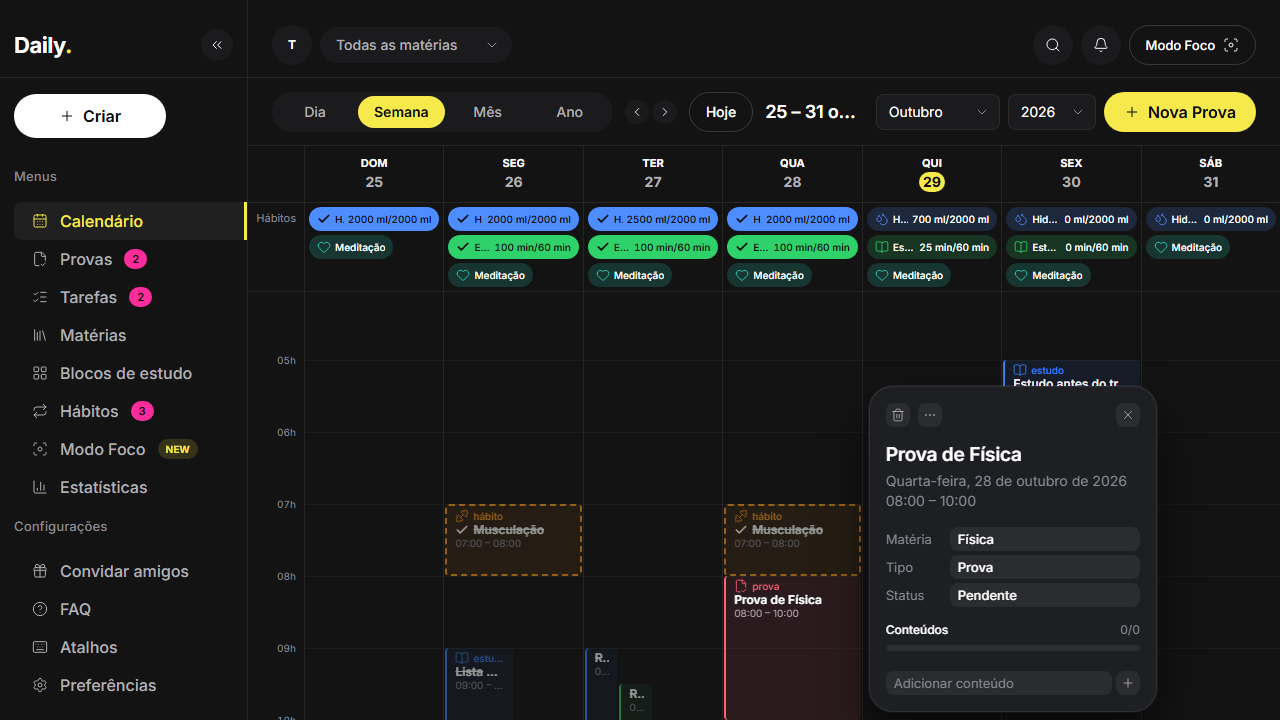
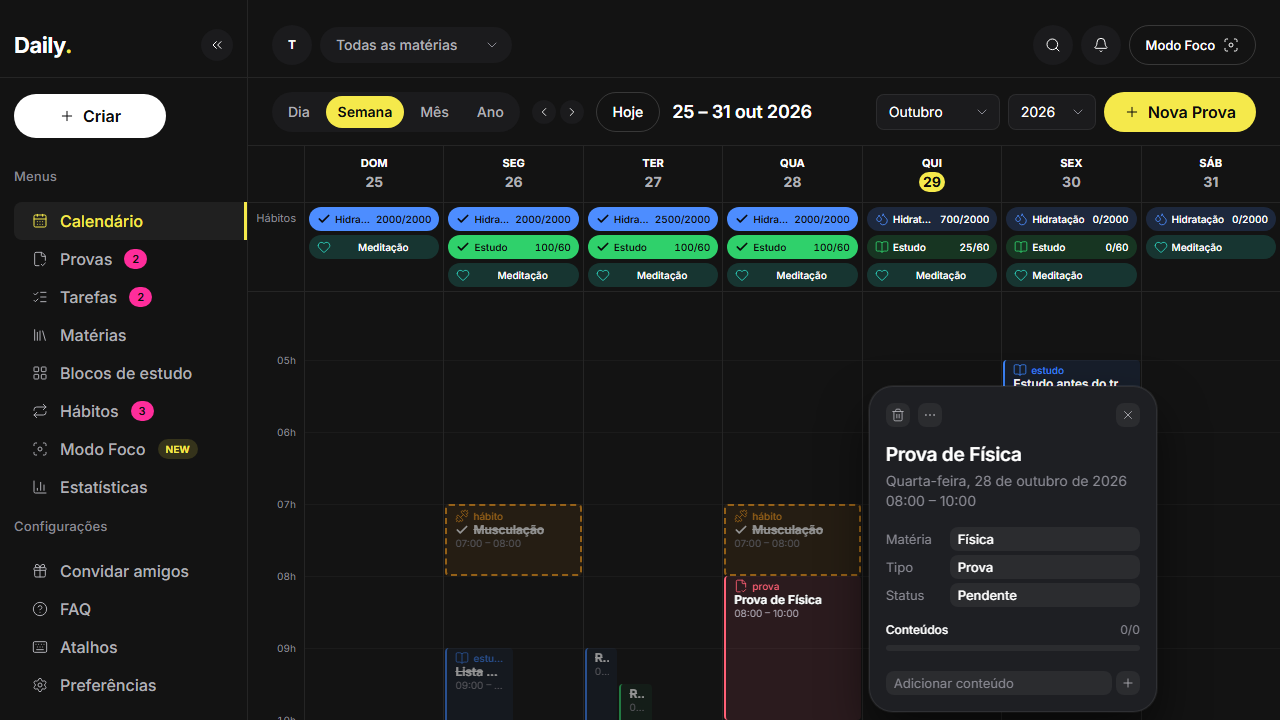
feat(calendar): compact view switcher, pill layout and contrast; docs for the calendar views

diff --git a/apps/web/src/features/calendar/components/HabitPill.tsx b/apps/web/src/features/calendar/components/HabitPill.tsx
@@ -22,14 +22,19 @@ export function HabitPill({ habit, date, ctx, onToggle }: HabitPillProps) {
   const Icon = HABIT_ICON_COMPONENT[habit.icon];
   const done = isDone(habit, date, ctx);
   const state = stateText(dayState(habit, date, ctx));
+  // Na pílula, só “valor/meta” (a unidade fica no rótulo e no tooltip).
+  const value = valueOn(habit, date, ctx);
+  const target = targetOn(habit, date);
   const quantity =
+    habit.type === 'quantidade' ? `${formatAmount(value, '')}/${formatAmount(target, '')}` : null;
+  const quantityLong =
     habit.type === 'quantidade'
-      ? `${formatAmount(valueOn(habit, date, ctx), habit.unit)}/${formatAmount(targetOn(habit, date), habit.unit)}`
+      ? `${formatAmount(value, habit.unit)}/${formatAmount(target, habit.unit)}`
       : null;
   const interactive = habit.source === 'manual' && date <= ctx.today;
-  const label = `${habit.name}: ${state}${quantity ? ` (${quantity})` : ''}`;
+  const label = `${habit.name}: ${state}${quantityLong ? ` (${quantityLong})` : ''}`;
   const className = cn(
-    'inline-flex h-habit-pill max-w-full items-center gap-1 rounded-full px-2 text-2xs font-medium',
+    'flex h-habit-pill w-full items-center gap-1 rounded-full px-2 text-2xs font-medium',
     HABIT_COLOR_CLASS[habit.color],
     done ? 'habit-bg text-accent-fg' : 'habit-bg-soft text-fg',
     interactive && 'hover:brightness-125',
@@ -41,7 +46,7 @@ export function HabitPill({ habit, date, ctx, onToggle }: HabitPillProps) {
       ) : (
         <Icon aria-hidden strokeWidth={1.5} className="habit-text size-icon-sm shrink-0" />
       )}
-      <span className="truncate">{habit.name}</span>
+      <span className="min-w-0 flex-1 truncate">{habit.name}</span>
       {quantity && <span className="shrink-0 tabular-nums">{quantity}</span>}
     </>
   );

diff --git a/apps/web/src/components/ui/SegmentedControl.tsx b/apps/web/src/components/ui/SegmentedControl.tsx
@@ -18,6 +18,8 @@ interface SegmentedControlProps<T extends string> {
   onChange: (value: T) => void;
   /** Ações (ex.: “Hoje”) exibidas no mesmo trilho, mas que nunca ficam selecionadas. */
   actions?: readonly ActionItem[];
+  /** Itens mais justos (sem largura mínima), para barras de controles apertadas. */
+  compact?: boolean;
   'aria-label': string;
 }
 
@@ -28,6 +30,7 @@ export function SegmentedControl<T extends string>({
   value,
   onChange,
   actions = [],
+  compact = false,
   'aria-label': ariaLabel,
 }: SegmentedControlProps<T>) {
   return (
@@ -50,6 +53,7 @@ export function SegmentedControl<T extends string>({
               onClick={() => onChange(option.value)}
               className={cn(
                 ITEM,
+                compact && 'min-w-0! px-3!',
                 active ? 'bg-accent font-semibold text-accent-fg' : 'text-soft hover:text-fg',
               )}
             >

diff --git a/apps/web/src/features/calendar/components/TimeGridView.tsx b/apps/web/src/features/calendar/components/TimeGridView.tsx
@@ -103,7 +103,7 @@ export function TimeGridView({
             ),
             stripLabel: 'Hábitos',
             renderStrip: (date: string) => (
-              <div className="flex flex-wrap gap-1">
+              <div className="flex flex-col gap-1">
                 {untimedHabits(habits, date, ctx).map((habit) => (
                   <HabitPill key={habit.id} habit={habit} date={date} ctx={ctx} onToggle={toggle} />
                 ))}

diff --git a/apps/web/src/features/calendar/components/CalendarControls.tsx b/apps/web/src/features/calendar/components/CalendarControls.tsx
@@ -70,6 +70,7 @@ export function CalendarControls({
         <SegmentedControl
           aria-label="Visualização do calendário"
           options={VIEW_OPTIONS}
+          compact
           value={view}
           onChange={onViewChange}
         />

diff --git a/docs/prompts/06-report.md b/docs/prompts/06-report.md
@@ -1,0 +1,67 @@
+# Relatório 06 — Visões Dia, Semana e Ano do calendário (v0.6.0)
+
+## O que foi feito
+
+- **Navegação (Passo 0):** o calendário passou a ter **Dia | Semana | Mês | Ano**. O botão "Hoje" saiu do segmentado e virou uma pílula ao lado das setas (`‹ ›  Hoje  título do período`) e volta ao período atual **na visão em que se está**. Visão e data ficam na URL (`/calendario?visao=semana&data=2026-10-29`); recarregar, voltar e compartilhar preservam o estado, valores inválidos caem em Mês + hoje e parâmetros extras (ex.: `fixture`) são preservados. Os selects de mês e ano seguem a data, as setas andam por dia, semana, mês ou ano, e o filtro por matéria da topbar vale para todas as visões. "Nova Prova" não mudou.
+- **Grade de horas (`TimeGrid`)**, usada por Dia e Semana: coluna de horas, linhas por hora, intervalo 06h–24h **expandido** em horas cheias quando há evento fora dele, linha de "agora" no dia de hoje, rolagem automática para a hora atual (ou 07h). Blocos posicionados por **porcentagem** do intervalo, duração visual mínima de 30 min e corte na meia-noite. `layoutSobreposicoes` distribui os concorrentes em colunas lado a lado. Conteúdo do bloco por altura (3, 2 ou 1 linha com tooltip), no estilo dos chips do mês. Clicar num espaço vazio abre o formulário com data e horário (arredondado para baixo, em 30 min); clicar num bloco abre o popover de evento do mês.
+- **Semana:** 7 colunas (DOM–SÁB), hoje em amarelo, título "25 – 31 out 2026" (ajusta nas viradas de mês e ano), faixa "Hábitos" fixa com pílulas dos hábitos sem horário (manual alterna em hoje e nos dias passados; quantidade mostra valor/meta; automáticos são só leitura) e blocos tracejados para hábitos com horário. Cabeçalho e faixa ficam fixos na rolagem vertical e, abaixo de 960 px, grade e cabeçalho rolam juntos na horizontal.
+- **Dia:** título "Hoje, quinta-feira, 29 de outubro" (ou a data por extenso), grade de uma coluna larga e painel à direita (abaixo de 1100 px, acima da grade) com "Hábitos do dia" (mesmos controles da página Hábitos), "Próxima prova" (contagem regressiva, barra e atalho) e "Tarefas do dia" (entregas pendentes e atrasadas, com checkbox para concluir), todos com estados vazios.
+- **Ano:** 12 mini-meses (4×3 a partir de 1600 px, 3×4 a partir de 1100 px, 2×6 abaixo), densidade em 4 níveis, marcador vermelho nos dias com prova, hoje com contorno amarelo, dias de outros meses ocultos, tooltip e `aria-label` com a contagem ("3 eventos, 1 prova"), legenda "Menos … Mais". O dia abre a visão Dia e o nome do mês, a visão Mês. Foco móvel por teclado (← → um dia, ↑ ↓ uma semana).
+- **Teclado:** `←` `→` período, `T` hoje, `D` `S` `M` `A` visão; desativados em campos de texto, em menus e diálogos, com modal aberto, com o app travado e quando a própria visão já tratou a tecla (grade do Ano). `aria-keyshortcuts` e dica no tooltip.
+- **Verificação:** fixture `?fixture=views`, `pnpm visual:views` e auditoria de contraste ampliada ao calendário.
+
+## Decisões
+
+- **Estado na URL por `useSearchParams`:** cada mudança é uma entrada do histórico (o voltar do navegador funciona); a visão padrão (Mês) não reescreve a URL até alguém navegar.
+- **Posição por porcentagem:** altura do corpo = horas × `--ds-grid-hour-h` (token) e cada bloco usa `top`/`height` em %. As linhas por altura usam limiares em **minutos** (≥ 50 min = 3 linhas), calibrados para a hora de 72 px.
+- **Entrega sem duração** vira um bloco de 30 min (mínimo visual), sempre dentro das 24 h.
+- **Hábitos na grade:** hábitos com horário usam o mesmo layout de sobreposição dos eventos (`GridItem` unificado) e alternam ao clique (manuais, até hoje).
+- **Criar num espaço vazio** usa o tipo "Bloco de estudo" (o mais comum numa grade de horas); o botão do dia no cabeçalho da Semana abre o formulário padrão e é a alternativa por teclado.
+- **Densidade do Ano** ignora eventos cancelados; o texto da célula troca para escuro no nível 3 (amarelo cheio).
+- **Sem dependência nova.** Classes do Tailwind só por mapas literais (`HABIT_COLOR_CLASS`, `DENSITY_CLASS`) ou variáveis de tokens; nada de classes montadas por template.
+
+## Valores visuais estimados
+
+Todos em `tokens.css` e no design system (§ 12): hora de 72 px, coluna de horas de 56 px, largura mínima da Semana de 960 px, cabeçalho de 56 px, painel do Dia de 320 px (altura mínima da grade de 36 rem quando o painel vai para cima), linha de agora de 2 px com bolinha de 8 px, pílula de hábito de 24 px, borda tracejada de 2 px, célula do Ano de 24 px com vão de 24 px e marcador de prova de 5 px, densidades de 4 %, 22 %, 38 % e 85 % do amarelo.
+
+## Contraste
+
+`node apps/web/scripts/contrast-audit.mjs views` (1.107 textos nas 4 visões e nas demais páginas). Primeira medição: o "valor/meta" das pílulas ficava em 2,9–3,6:1 e os números do nível 2 do Ano em 4,2:1 (o resto dos reprovados eram textos cobertos pelo cabeçalho fixo, descartados passando a verificar `elementFromPoint`). Depois dos ajustes: menor razão **4,55:1**, nenhum abaixo de 4,5:1 (`docs/design/screenshots/stats/contrast-views.json`). Foco visível: anel global; a grade do Ano e os blocos o herdam.
+
+## Diferenças e limitações
+
+- Sem arrastar/redimensionar, sem eventos de vários dias e sem recorrência de eventos (fora do escopo); o que cruza a meia-noite é cortado em cada dia.
+- Clicar num espaço vazio da grade é ação de mouse; por teclado, cria-se pelo botão do dia (Semana) ou pelo "Nova Prova".
+- Na fixture `views` o evento que cruza a meia-noite faz a grade da semana ir de 00h a 24h; a rolagem inicial leva à hora atual.
+- O popover de evento reaproveita o do mês, sem ajustes de posição específicos da grade (a captura confirma que fica dentro da tela nos três tamanhos).
+- Sem overflow horizontal da página em 1920×1080, 1440×900 e 1280×720 (`docs/design/screenshots/views/capture-report.json`).
+
+## Como rodar
+
+```bash
+pnpm dev                       # http://localhost:5173/calendario?visao=semana&data=2026-10-29&fixture=views
+pnpm visual:views              # capturas em docs/design/screenshots/views/
+node apps/web/scripts/contrast-audit.mjs views
+```
+
+## Resultado dos comandos
+
+| Comando          | Resultado                                                                                                                                                                                                                                                                                                                                                                                                     |
+| ---------------- | ------------------------------------------------------------------------------------------------------------------------------------------------------------------------------------------------------------------------------------------------------------------------------------------------------------------------------------------------------------------------------------------------------------- |
+| `pnpm lint`      | sem erros                                                                                                                                                                                                                                                                                                                                                                                                     |
+| `pnpm typecheck` | sem erros                                                                                                                                                                                                                                                                                                                                                                                                     |
+| `pnpm test`      | 255 testes em `apps/web` + 11 em `packages/shared`, todos passando (novos: intervalo da semana em viradas de mês/ano, corte na meia-noite, expansão do intervalo, posição em %, `layoutSobreposicoes` (sem conflito, 2 e 3 simultâneos, encadeados, mesmo início, evento dentro de outro, sem perda), `grade12Meses`, `densidadePorDia`, títulos de cada visão, URL com valores inválidos, clique em hábitos) |
+| `pnpm build`     | ok                                                                                                                                                                                                                                                                                                                                                                                                            |
+| `pnpm e2e`       | 29 testes passando (7 novos: trocar de visão pelo segmentado e pela URL; `→` e "Hoje"; atalhos não roubam teclas; criar num horário vazio com data e hora corretas; Ano → Dia e → Mês; marcar hábito pela faixa; simultâneos sem sobreposição)                                                                                                                                                                |
+
+**CI no GitHub:** confirmado na mensagem final da sessão (resultado do último commit e da tag).
+
+## Capturas (`docs/design/screenshots/views/`)
+
+`dia-*`, `semana-*`, `mes-*`, `ano-*` e `semana-popover-*`, cada uma em `1920x1080`, `1440x900` e `1280x720`, mais `capture-report.json`.
+
+## Pendências
+
+- Criar eventos por teclado direto na grade (hoje: botão do dia e "Nova Prova").
+- Captura do Dia com o painel acima da grade (< 1100 px) e da Semana com rolagem horizontal (< 960 px de grade).
+- Foco visível e hover dos blocos foram verificados por teclado/e2e, não por medição automática.

diff --git a/docs/design/design-system.md b/docs/design/design-system.md
@@ -1,4 +1,4 @@
-# Daily — Design System (v0.8)
+# Daily — Design System (v0.9)
 
 Fonte de verdade para os tokens em `apps/web/src/styles/tokens.css` (variáveis com prefixo `--ds-`, ex.: `--ds-color-bg`).
 Referência: `docs/design/reference/calendar.png` (808×609 px, mockup com moldura de dispositivo).
@@ -393,3 +393,12 @@ O calendário tem quatro visões: **Dia | Semana | Mês | Ano**. O botão “Hoj
 - **Dia:** uma coluna larga e, à direita, o painel de `--ds-day-panel-w` (320 px) com “Hábitos do dia”, “Próxima prova” e “Tarefas do dia”; abaixo de 1100 px o painel vai para cima da grade.
 - **Ano:** 12 mini-meses (cabeçalho com a inicial do dia da semana). Colunas: 4×3 a partir de 1600 px, 3×4 a partir de 1100 px e 2×6 abaixo (`--ds-year-gap` entre eles); células de `--ds-year-day` (24 px). Densidade por dia em 4 níveis (`--ds-density-0..3`: 0, 1, 2 e 3 ou mais eventos), marcador vermelho (`--ds-year-exam-dot`, 5 px) nos dias com prova e o hoje com contorno amarelo. Legenda “Menos … Mais”.
 - **Atalhos:** `←`/`→` período anterior e seguinte, `T` hoje, `D` `S` `M` `A` trocam a visão; desativados com foco em campo de texto, com modal aberto e com o app travado. Cada botão tem `aria-keyshortcuts` e a dica no `title`.
+
+### 12.1 Implementação (v0.9)
+
+- **Código:** `TimeGrid` (grade), `TimeGridView` (liga eventos, hábitos e relógio), `TimeBlock` (`EventBlock` e `HabitBlock`), `HabitPill`, `WeekView`, `DayView` + `DayPanel` e `YearView`; a lógica pura fica em `features/calendar/lib` (`views`, `time-layout`, `grid-items`, `year`) com testes.
+- **Simultâneos:** itens que se encadeiam por sobreposição formam um grupo e dividem as colunas dele; fora do grupo voltam à largura inteira. Hábitos com horário entram no mesmo layout dos eventos.
+- **Faixa de hábitos:** uma pílula por linha, na largura da coluna, com “valor/meta” sem unidade (a unidade vai no `aria-label` e no tooltip).
+- **Barra de controles:** o segmentado usa a variante `compact` (sem largura mínima) para o título do período caber em 1280 px.
+- **Contraste (`node apps/web/scripts/contrast-audit.mjs views`):** 1.107 textos medidos nas 4 visões e nas outras páginas; antes dos ajustes, o texto “valor/meta” das pílulas ficava em 2,9–3,6:1 e os números do nível 2 do Ano em 4,2:1; depois, menor razão **4,55:1** e nenhum abaixo de 4,5:1 (`docs/design/screenshots/stats/contrast-views.json`). O nível 2 de densidade passou de 50 % para 38 % do amarelo.
+- **Fixture `views`:** quinta-feira 29/10/2026, 10h30; semana densa (três simultâneos, encadeados, prova, evento que cruza a meia-noite, evento às 05h e dias vazios) e um hábito manual sem horário (“Meditação”).

diff --git a/CHANGELOG.md b/CHANGELOG.md
@@ -5,6 +5,18 @@ tem versões publicadas.
 
 ## [Não lançado]
 
+### Adicionado (Prompt 06 — visões do calendário)
+
+- O calendário tem **Dia | Semana | Mês | Ano**. A visão e a data ficam na URL (`/calendario?visao=semana&data=2026-10-29`; valores inválidos caem em Mês + hoje) e o botão voltar do navegador as respeita. O botão "Hoje" saiu do segmentado e virou uma pílula ao lado das setas (`‹ ›  Hoje  título do período`); as setas andam por dia, semana, mês ou ano.
+- **Grade de horas** (`TimeGrid`) para Dia e Semana: 06h–24h expandida quando há eventos fora dela, blocos posicionados por **porcentagem** do intervalo, duração visual mínima de 30 min, corte na meia-noite, linha de "agora" e rolagem inicial na hora atual (ou 07h). Eventos simultâneos ficam lado a lado (`layoutSobreposicoes`). Blocos mostram 3, 2 ou 1 linha conforme a altura, com tooltip. Clicar num espaço vazio abre o formulário já com data e horário (arredondado para 30 min).
+- **Semana:** faixa "Hábitos" fixa com pílulas dos hábitos sem horário (marca hábito manual de hoje e dos dias passados; quantidade mostra valor/meta; automáticos são só leitura) e blocos tracejados para hábitos com horário. **Dia ("Hoje"):** grade larga e painel com "Hábitos do dia", "Próxima prova" e "Tarefas do dia". **Ano:** 12 mini-meses com densidade de eventos (0, 1, 2, 3+), marcador de prova, hoje com contorno e navegação por teclado; o dia abre a visão Dia e o nome do mês, a visão Mês.
+- Atalhos `←` `→` (período), `T` (hoje) e `D` `S` `M` `A` (visão), desativados em campos de texto, com modal aberto e com o app travado; `aria-keyshortcuts` e dica no tooltip.
+- Fixture `?fixture=views`, `pnpm visual:views`, tokens e a seção "Visões do calendário" no design system.
+
+### Alterado (Prompt 06)
+
+- A auditoria de contraste passou a cobrir o calendário; corrigidos o texto "valor/meta" das pílulas e o nível 2 da densidade do Ano.
+
 ### Adicionado (Prompt 05 — hábitos recorrentes)
 
 - Página `/habitos` e item "Hábitos" na sidebar (contador de pendentes hoje; oculto em zero, como o de Tarefas): um cartão por hábito, com ícone e cor, resumo da repetição, sequência, melhor sequência, taxa de 90 dias, controle de hoje, menu (Editar, Duplicar, Arquivar, Excluir com "Desfazer") e o **heatmap de contribuições** (semanas em colunas, rótulos de mês e dia, legenda, hoje com contorno, teclado e `aria-label` por dia, tooltip, tabela oculta por mês, rolagem horizontal abaixo de 1100 px).

diff --git a/README.md b/README.md
@@ -47,7 +47,7 @@ O projeto está em desenvolvimento, organizado em marcos.
 
 ### Já disponíveis
 
-- [x] Calendário mensal com navegação por mês e ano e botão "Hoje"
+- [x] **Calendário com 4 visões — Dia, Semana, Mês e Ano** (`/calendario?visao=semana&data=2026-10-29`): visão e data na URL, botão "Hoje" ao lado das setas (volta ao período atual na visão em que se está), atalhos de teclado (`←` `→` `T` `D` `S` `M` `A`)
 - [x] Dia atual destacado e dias de outros meses esmaecidos
 - [x] Chips de evento por tipo (prova, estudo, entrega, revisão, especial) com "+N mais" em dias cheios
 - [x] Popover de evento com data, horário, matéria, tipo e status
@@ -72,7 +72,6 @@ O projeto está em desenvolvimento, organizado em marcos.
 
 - [ ] Autenticação (e-mail/senha ou Google)
 - [ ] Sincronização com back-end
-- [ ] Visões Semana e Ano
 - [ ] Notificações e lembretes periódicos
 - [ ] PWA instalável (manifest e service worker)
 - [ ] Atalhos de teclado
@@ -220,7 +219,8 @@ A pílula **Travar** (visível só com o cronômetro parado) liga a trava para a
 - Com várias abas abertas, **a última escrita vence** (o evento `storage` recarrega a aba que não gravou; não há mesclagem de edições simultâneas)
 - O `Repository` é síncrono (adequado ao `localStorage`); uma API exigirá torná-lo assíncrono
 - Busca e notificações ainda são apenas visuais
-- Visões Semana e Ano são placeholders; Atalhos, FAQ e Convidar amigos são páginas placeholder
+- Atalhos, FAQ e Convidar amigos são páginas placeholder
+- Calendário: nas visões Dia e Semana não dá para arrastar nem redimensionar eventos, não há eventos de vários dias (os que cruzam a meia-noite são cortados em cada dia) nem recorrência de eventos; clicar num espaço vazio é uma ação de mouse (o teclado cria pelo botão do dia no cabeçalho da Semana e pelo "Nova Prova")
 - Hábitos: os registros ficam só neste navegador; correções retroativas só para hábitos manuais e até 366 dias atrás; a regra de repetição ainda não vale para eventos do calendário (recorrência de eventos fica para depois); mudar repetição, meta ou horário vale a partir de hoje (o histórico não muda)
 - Estatísticas: a água é registrada só neste navegador; as análises usam os blocos de estudo e as sessões de foco registradas (sem dados, mostram “Ainda não há dados neste período”)
 - Matérias sem cor própria no calendário: os chips usam a cor do **tipo** de evento, e a cor da matéria aparece nas listas

diff --git a/CLAUDE.md b/CLAUDE.md
@@ -39,6 +39,7 @@ pnpm e2e          # Playwright (1ª vez: pnpm --filter @daily/web exec playwrigh
 pnpm visual:capture  # screenshots + comparação com a referência em docs/design/screenshots/
 pnpm visual:stats    # capturas da página de Estatísticas (docs/design/screenshots/stats/)
 pnpm visual:habits   # capturas de /habitos, modal, popover e Estatísticas (docs/design/screenshots/habits/)
+pnpm visual:views    # capturas das visões do calendário (docs/design/screenshots/views/)
 pnpm format       # prettier --write
 ```
 
@@ -56,6 +57,7 @@ como rodar, resultado de lint/typecheck/test/build e pendências). `NN` é seque
 - Mudou o formato salvo? Suba `DATA_VERSION`, escreva a migração em `envelope.ts` e atualize o histórico em `docs/data-model.md`.
 - Modo Foco: lógica pura em `lib/focus` (`session.ts` = máquina de estados por timestamps, `hold.ts`, `time-input.ts`, `format.ts`, `top-days.ts`); efeitos em `controller.ts`; a sessão ativa fica numa chave própria (`daily:v2:focus`), fora do backup. O relógio é injetável: as funções recebem `nowMs`.
 - Hábitos: lógica pura em `lib/habits` (`repeat.ts` = repetição reaproveitável, `engine.ts`, `matrix.ts`, `aggregate.ts`, `edit.ts`, `form.ts`); fontes automáticas leem água, foco e blocos via `HabitContext`. Editar repetição/meta/horário cria uma **regra nova a partir de hoje** (nunca reescreva o passado). As classes `habit-<cor>` precisam aparecer **literalmente** no código (`HABIT_COLOR_CLASS`).
+- Calendário: a visão e a data vivem na URL (`?visao=dia|semana|mes|ano&data=yyyy-MM-dd`, `features/calendar/lib/views.ts`); a grade de horas (`TimeGrid`) posiciona blocos por **porcentagem** do intervalo, e o layout de simultâneos é a função pura `layoutSobreposicoes` (`lib/time-layout.ts`). Nunca monte classes do Tailwind por template: use mapas literais (`HABIT_COLOR_CLASS`, `DENSITY_CLASS`) ou variáveis CSS de tokens.
 - Excluir algo = `deleteEventWithUndo` / `deleteSubjectWithUndo` (toast “Desfazer”, 6 s).
 
 ## Fixture visual
